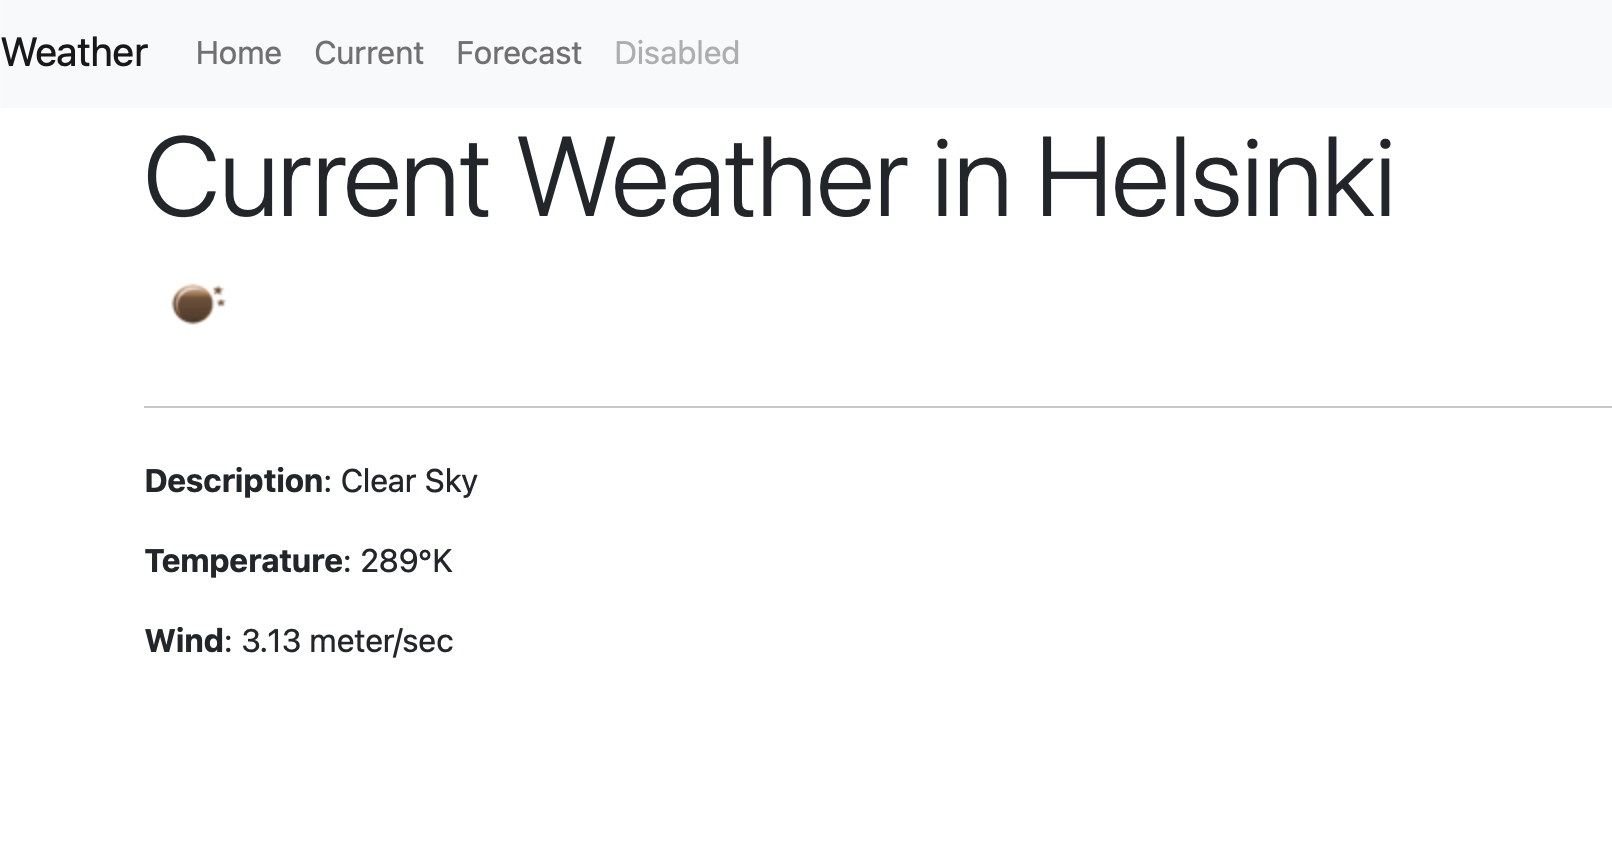
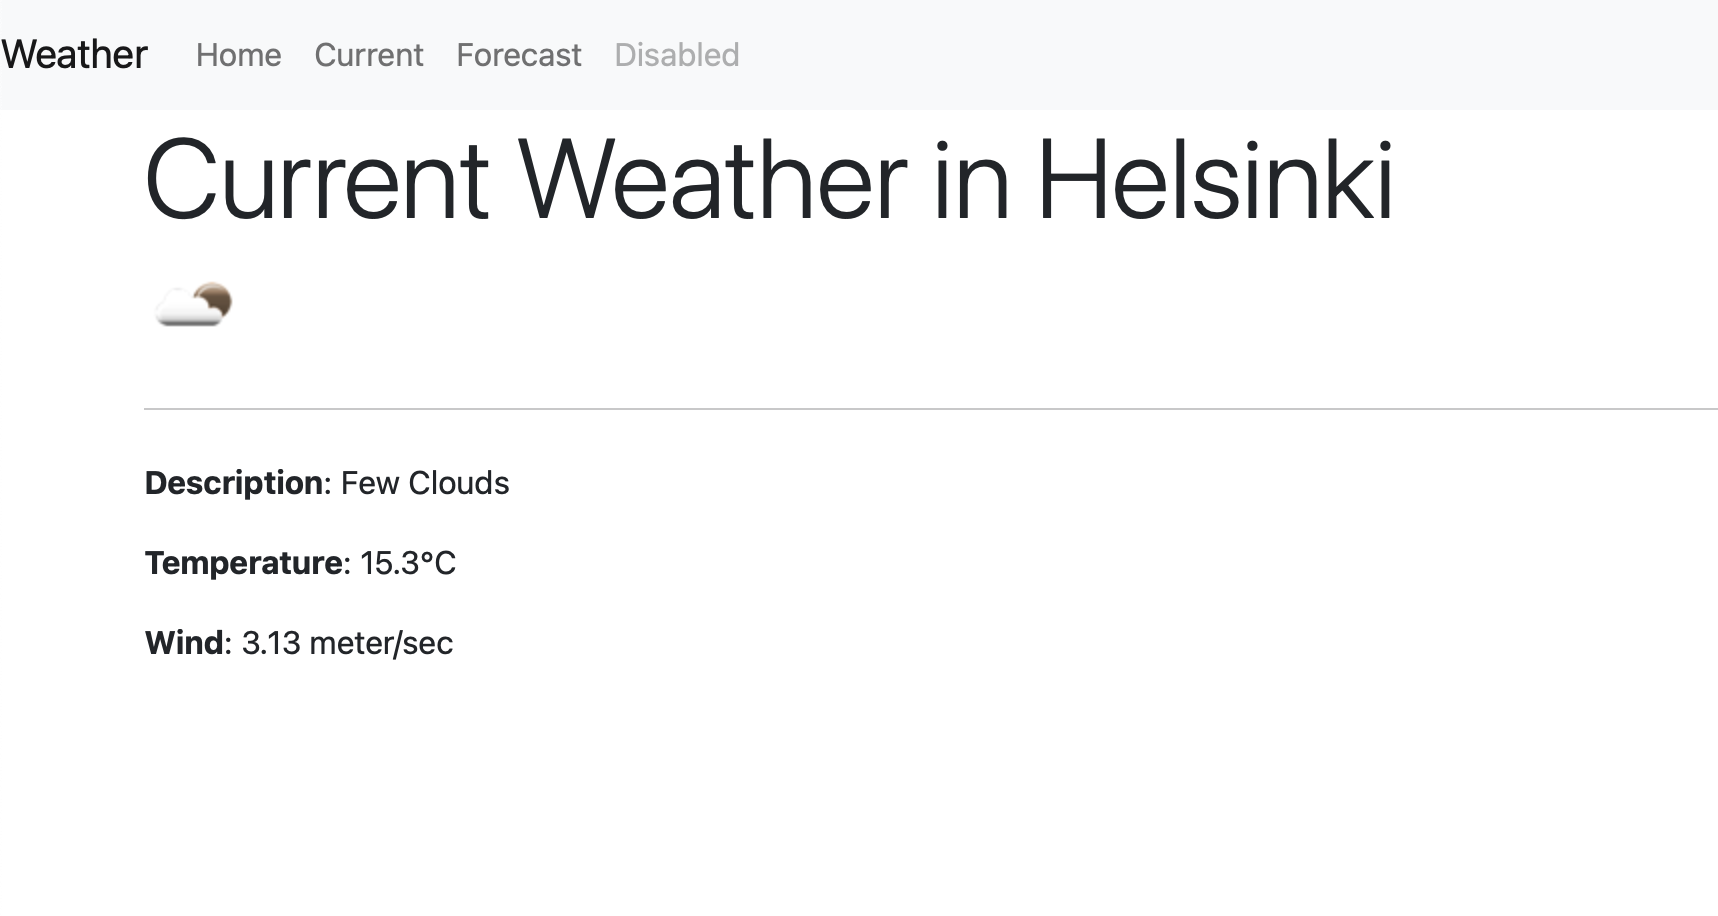
converted temperature from Kelvin to Celcius

diff --git a/web/templates/weather.html b/web/templates/weather.html
@@ -3,7 +3,7 @@
     <p class="lead"><img src="https://api.openweathermap.org/img/w/{{weather.icon}}.png" alt="weather image"</p>
     <hr class="my-4">
     <p><strong>Description</strong>: {{weather.description}}</p>
-    <p><strong>Temperature</strong>: {{weather.temperature}}°K</p>
+    <p><strong>Temperature</strong>: {{weather.temperature}}°C</p>
     <p><strong>Wind</strong>: {{weather.wind}} meter/sec</p>
 
   </div>

diff --git a/server.py b/server.py
@@ -33,7 +33,7 @@ def current():
             "description" : data["weather"][0]["description"].title(),
             "icon": data["weather"][0]["icon"],
             "name": data["name"],
-            "temperature": data["main"]["temp"],
+            "temperature": round(data["main"]["temp"]- 273.15,1),
             "wind": data["wind"]["speed"]
         }
 
